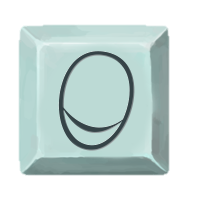
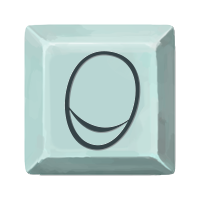
Added shadow boots and cloak art

diff --git a/theThief/src/main/java/thiefmod/relics/ShadowCloak.java b/theThief/src/main/java/thiefmod/relics/ShadowCloak.java
@@ -17,8 +17,8 @@ import thiefmod.powers.Common.ShadowstepPower;
 public class ShadowCloak extends CustomRelic {
 
     public static final String ID = thiefmod.ThiefMod.makeID("ShadowCloak");
-    public static final String IMG = "thiefmodAssets/images/relics/PocketChange.png";
-    public static final String OUTLINE = "thiefmodAssets/images/relics/outline/PocketChange.png";
+    public static final String IMG = "thiefmodAssets/images/relics/ShadowCloak.png";
+    public static final String OUTLINE = "thiefmodAssets/images/relics/outline/ShadowCloak.png";
 
     private static final UIStrings uiStrings = CardCrawlGame.languagePack.getUIString("theThief:TooltipNames");
     public static final String TOOLTIP_STRINGS[] = uiStrings.TEXT;

diff --git a/theThief/src/main/java/thiefmod/relics/StolenBag.java b/theThief/src/main/java/thiefmod/relics/StolenBag.java
@@ -11,8 +11,8 @@ import thiefmod.patches.character.AbstractCardEnum;
 public class StolenBag extends CustomRelic {
 
     public static final String ID = thiefmod.ThiefMod.makeID("StolenBag");
-    public static final String IMG = "thiefmodAssets/images/relics/StolenBag.png";
-    public static final String OUTLINE = "thiefmodAssets/images/relics/outline/StolenBag.png";
+    public static final String IMG = "thiefmodAssets/images/relics/PocketChange.png";
+    public static final String OUTLINE = "thiefmodAssets/images/relics/outline/PocketChange.png";
 
     private boolean usedThisCombat = false;
 
